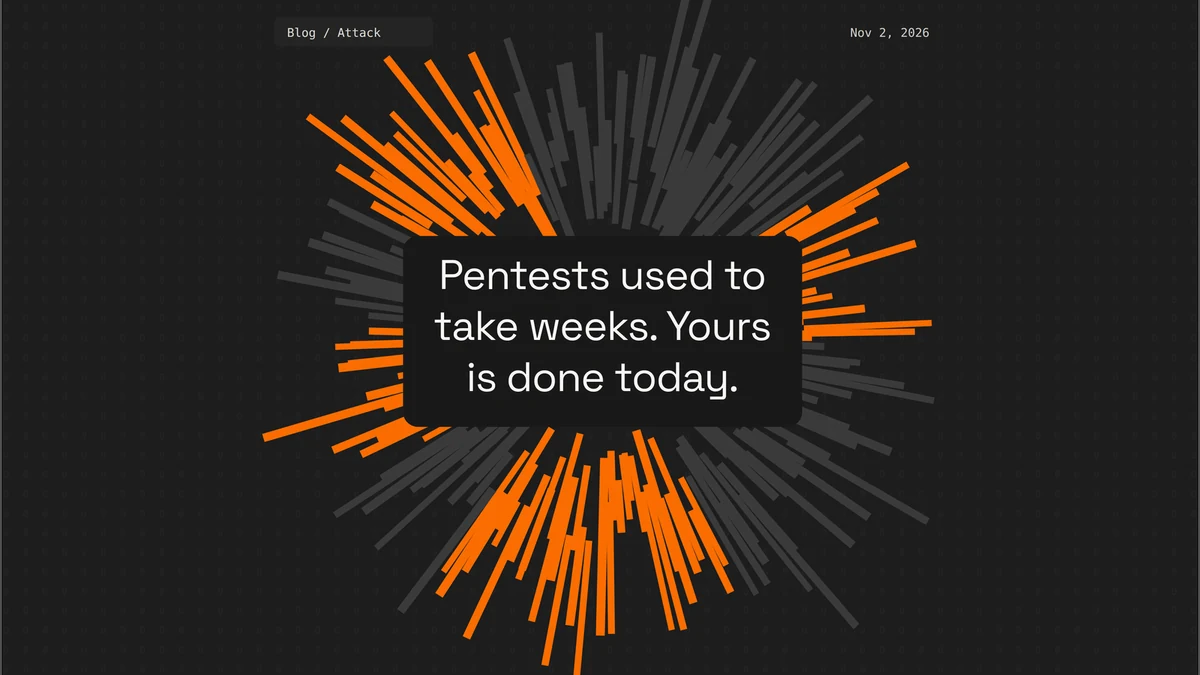
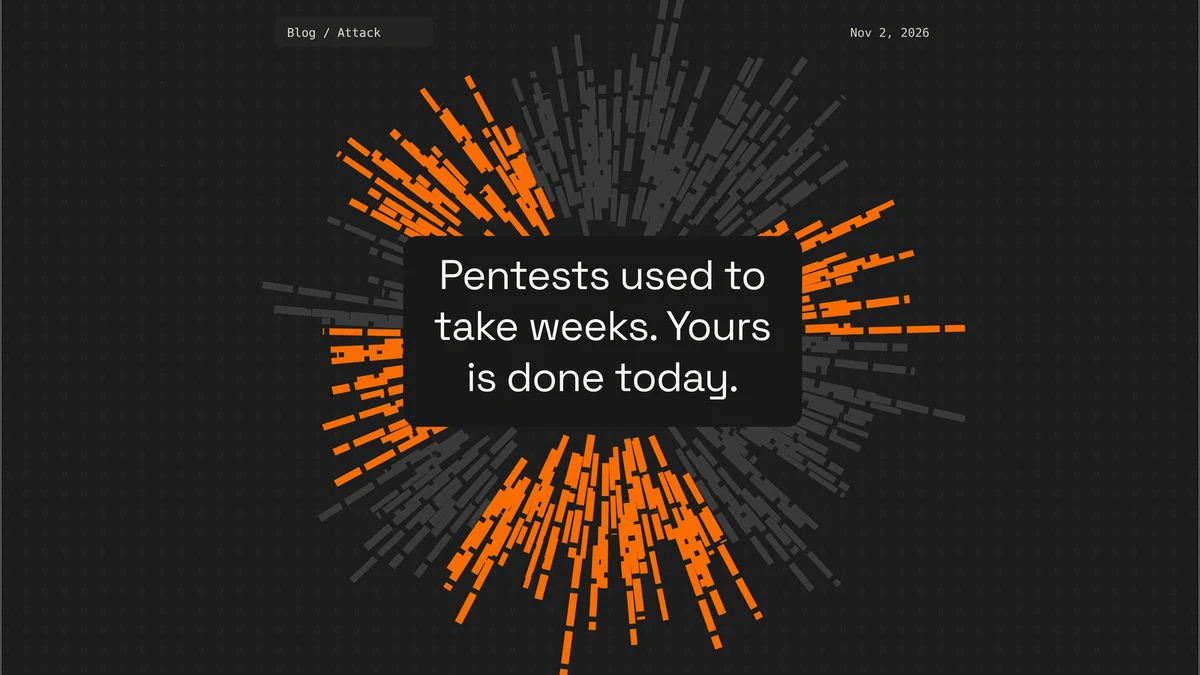
fix(aikido): tighten fan/arc geometry against the measured reference panels

Changed region(s): [[0.2158, 0.0, 0.8017, 1.0], [0.2775, 0.84, 0.3083, 0.8711]]

diff --git a/src/components/aikido/AikidoBanners.tsx b/src/components/aikido/AikidoBanners.tsx
@@ -63,24 +63,27 @@ function useConfetti(rng: Rng) {
 
 /** Concentric arcs of the dark card: the "code tunnel". */
 function tunnelArcs() {
-	const arcs: { d: string; violet: boolean; offset: number }[] = [];
-	const cx = 462;
-	const cy = 1210;
-	for (let i = 0; i < 18; i++) {
-		const r = 1020 - i * 36;
-		const a0 = (-175 * Math.PI) / 180;
-		const a1 = (-5 * Math.PI) / 180;
-		const x0 = cx + r * Math.cos(a0);
-		const y0 = cy + r * Math.sin(a0);
-		const x1 = cx + r * Math.cos(a1);
-		const y1 = cy + r * Math.sin(a1);
+	const arcs: { d: string; r: number; offset: number }[] = [];
+	const cx = 461;
+	const cy = 532;
+	for (let i = 0; i < 15; i++) {
+		const r = 310 - i * 20;
 		arcs.push({
-			d: `M${round(x0)} ${round(y0)}A${r} ${r} 0 0 1 ${round(x1)} ${round(y1)}`,
-			violet: i >= 9 && i <= 14,
-			offset: i * 23,
+			d: `M${round(cx - r)} ${cy}A${r} ${r} 0 0 1 ${round(cx + r)} ${cy}`,
+			r,
+			offset: i * 31,
 		});
 	}
 	return arcs;
+}
+
+/** Middle stretch of an arc, used for the violet band. */
+function arcSpan(r: number, fromDeg: number, toDeg: number) {
+	const cx = 461;
+	const cy = 532;
+	const a0 = (fromDeg * Math.PI) / 180;
+	const a1 = (toDeg * Math.PI) / 180;
+	return `M${round(cx + r * Math.cos(a0))} ${round(cy - r * Math.sin(a0))}A${r} ${r} 0 0 1 ${round(cx + r * Math.cos(a1))} ${round(cy - r * Math.sin(a1))}`;
 }
 
 /** Pale brick rows of the light card, laid out along wide arcs. */
@@ -199,10 +202,21 @@ export function AikidoBanners({ svgRef }: { svgRef?: Ref<SVGSVGElement> }) {
 							key={arc.d.slice(0, 22)}
 							d={arc.d}
 							fill="none"
-							stroke={arc.violet ? AK.violet : AK.yellow}
-							strokeWidth={12}
-							strokeDasharray="58 10"
+							stroke={AK.yellow}
+							strokeWidth={8}
+							strokeDasharray="100 8"
 							strokeDashoffset={arc.offset}
+						/>
+					))}
+					{arcs.slice(4, 10).map((arc, i) => (
+						<path
+							key={`v${arc.r}`}
+							d={arcSpan(arc.r, 124, 56)}
+							fill="none"
+							stroke={AK.violet}
+							strokeWidth={8}
+							strokeDasharray="100 8"
+							strokeDashoffset={arc.offset + 50 + i * 7}
 						/>
 					))}
 				</g>

diff --git a/src/components/aikido/AikidoPentest.tsx b/src/components/aikido/AikidoPentest.tsx
@@ -18,7 +18,7 @@ import {
 const SEED = 0x5e77;
 
 const CARD = { x: 151, y: 152, w: 1299, h: 657 };
-const ORIGIN = { x: 965, y: 845 };
+const ORIGIN = { x: 890, y: 926 };
 
 function useFan(rng: Rng) {
 	return useMemo(() => {
@@ -31,19 +31,23 @@ function useFan(rng: Rng) {
 			width: number;
 			offset: number;
 		}[] = [];
-		const count = 34;
+		const count = 23;
 		for (let i = 0; i < count; i++) {
 			const t = i / (count - 1);
-			const angle = ((-30 + t * 60) * Math.PI) / 180;
-			const len = range(rng, 690, 900);
+			// the fan opens from a narrow band above the card's bottom edge
+			const topX = 562 + t * 658;
+			const bottomX = 1050 + t * 22;
 			bars.push({
-				x1: ORIGIN.x,
-				y1: ORIGIN.y,
-				x2: round(ORIGIN.x + Math.sin(angle) * len),
-				y2: round(ORIGIN.y - Math.cos(angle) * len),
-				hot: rng() > 0.8,
-				width: round(range(rng, 7, 10)),
-				offset: round(range(rng, 0, 60)),
+				x1: round(bottomX),
+				y1: 940,
+				x2: round(topX),
+				y2: 120,
+				hot:
+					(t > 0.28 && t < 0.34) ||
+					(t > 0.62 && t < 0.68) ||
+					(t > 0.84 && t < 0.9),
+				width: 12,
+				offset: round(range(rng, 0, 70)),
 			});
 		}
 		return bars;
@@ -149,7 +153,7 @@ export function AikidoPentest({ svgRef }: { svgRef?: Ref<SVGSVGElement> }) {
 							y2={b.y2}
 							stroke={b.hot ? AK.orange : "#8c6bbb"}
 							strokeWidth={b.width}
-							strokeDasharray="62 9"
+							strokeDasharray="70 6"
 							strokeDashoffset={b.offset}
 						/>
 					))}

diff --git a/src/components/aikido/AikidoBurst.tsx b/src/components/aikido/AikidoBurst.tsx
@@ -29,12 +29,12 @@ type Bar = {
 function useBurst(rng: Rng) {
 	return useMemo(() => {
 		const bars: Bar[] = [];
-		const count = 170;
+		const count = 230;
 		for (let i = 0; i < count; i++) {
-			const deg = (i / count) * 360 + range(rng, -1.2, 1.2);
+			const deg = (i / count) * 360 + range(rng, -1.0, 1.0);
 			const rad = (deg * Math.PI) / 180;
-			const r0 = range(rng, 130, 280);
-			const len = range(rng, 60, 240);
+			const r0 = range(rng, 130, 300);
+			const len = range(rng, 50, 200);
 			const hot =
 				(deg > 150 && deg < 215) ||
 				(deg > 240 && deg < 272) ||
@@ -46,7 +46,7 @@ function useBurst(rng: Rng) {
 				x2: round(CENTER.x + Math.sin(rad) * (r0 + len)),
 				y2: round(CENTER.y - Math.cos(rad) * (r0 + len)),
 				hot,
-				width: round(range(rng, 8, 12)),
+				width: round(range(rng, 7, 11)),
 			});
 		}
 		return bars;
@@ -109,6 +109,7 @@ export function AikidoBurst({ svgRef }: { svgRef?: Ref<SVGSVGElement> }) {
 						y2={b.y2}
 						stroke={b.hot ? AK.orange : "#3a3a3a"}
 						strokeWidth={b.width}
+						strokeDasharray="44 7"
 					/>
 				))}
 			</g>

diff --git a/src/util/aikido.ts b/src/util/aikido.ts
@@ -111,9 +111,9 @@ export function cloudShape(rng: Rng, spec: CloudSpec): Cloud {
 	// the valleys stay crisp, like the cloud motif in the campaign.
 	const bumpCount = Math.max(2, lumps);
 	const bumps = Array.from({ length: bumpCount }, (_, i) => ({
-		c: (i + 0.5) / bumpCount + range(rng, -0.04, 0.04),
-		w: range(rng, 0.42, 0.62) / bumpCount,
-		a: range(rng, 0.55, 1),
+		c: (i + 0.5) / bumpCount + range(rng, -0.03, 0.03),
+		w: range(rng, 0.5, 0.72) / bumpCount,
+		a: range(rng, 0.6, 0.95),
 	}));
 	const bumpAt = (t: number) => {
 		let v = 0;
@@ -124,8 +124,8 @@ export function cloudShape(rng: Rng, spec: CloudSpec): Cloud {
 		}
 		return v;
 	};
-	const shoulder = y + h * 0.42;
-	const crown = y + h * 0.02;
+	const shoulder = y + h * 0.45;
+	const crown = y + h * 0.06;
 	const topAt = (t: number) => shoulder - (shoulder - crown) * bumpAt(t);
 
 	const bottomAt = (t: number) =>
